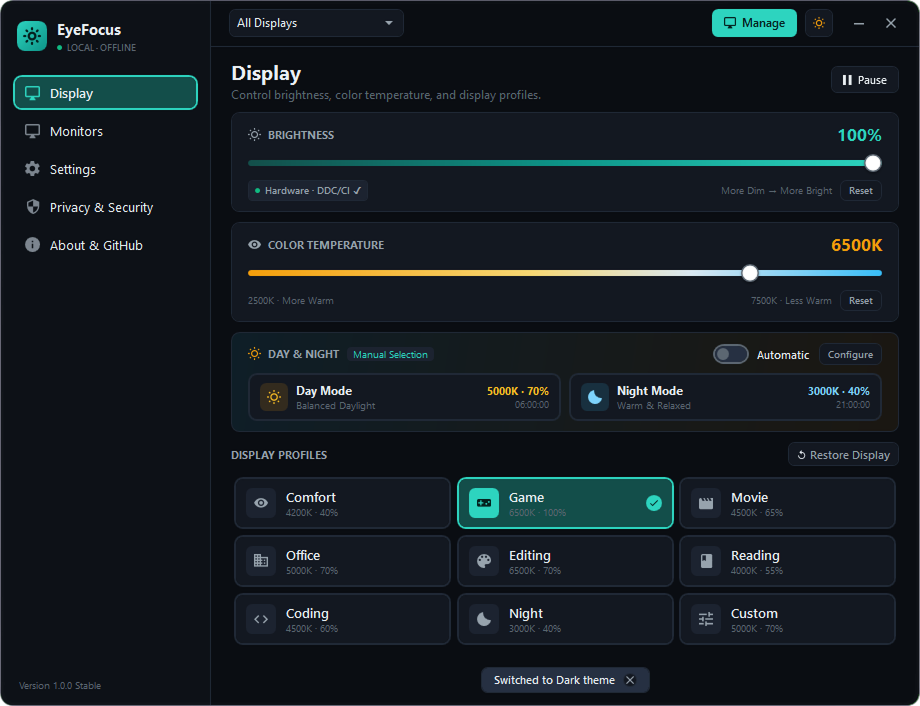
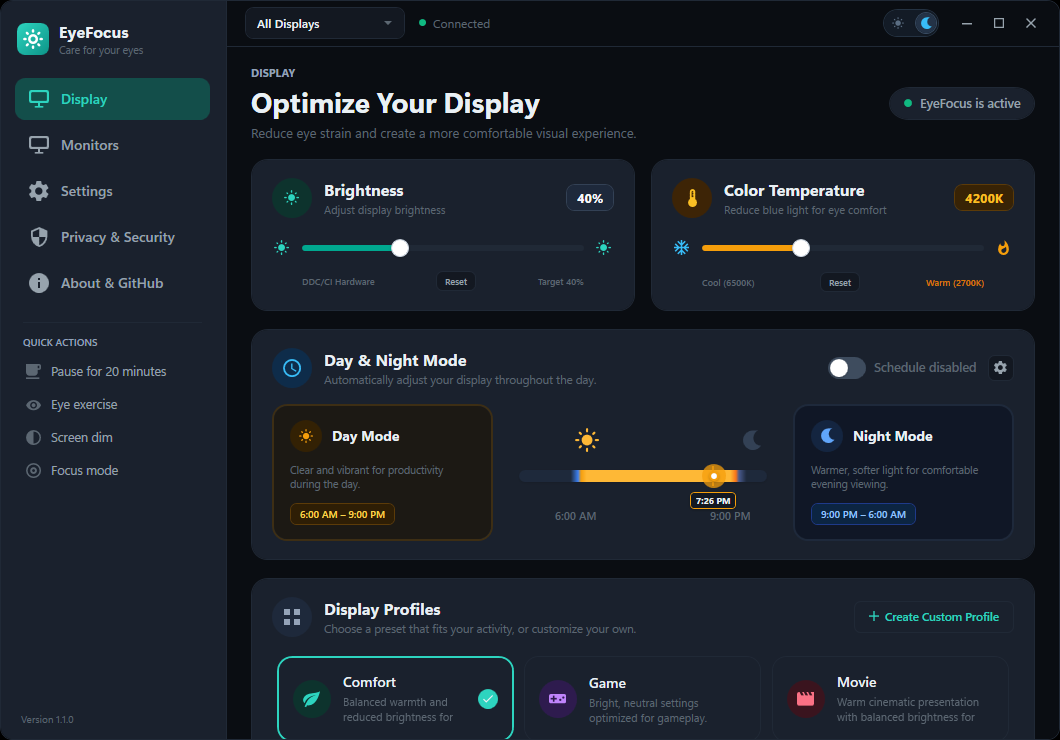
docs: update README screenshots for v1.1.0 release (Dark Mode tabs & Light Mode dashboard)

diff --git a/README.md b/README.md
@@ -78,21 +78,27 @@ Designed with clean **Material Design 3 Expressive & Fluent UI** aesthetics, Eye
 
 ---
 
-### 3. Automatic Day & Night Schedule Configuration
+### 3. Monitors & Hardware Detection (Dark Mode)
 
-<img src="Screenshots/automatic-settings.png" alt="Automatic Day and Night Configuration" />
-
----
-
-### 4. Application Settings & Preferences (Light Mode)
-
-<img src="Screenshots/settings-light.png" alt="Settings and Preferences View" />
+<img src="Screenshots/monitors-dark.png" alt="Monitors and Hardware Detection Dark Mode" />
 
 ---
 
-### 5. Privacy by Design Guarantees (Light Mode)
+### 4. Application Settings & Preferences (Dark Mode)
 
-<img src="Screenshots/privacy-light.png" alt="Privacy and Security View" />
+<img src="Screenshots/settings-dark.png" alt="Application Settings and Preferences Dark Mode" />
+
+---
+
+### 5. Privacy by Design Guarantees (Dark Mode)
+
+<img src="Screenshots/privacy-dark.png" alt="Privacy by Design Guarantees Dark Mode" />
+
+---
+
+### 6. About & Official Links (Dark Mode)
+
+<img src="Screenshots/about-dark.png" alt="About and Official Links Dark Mode" />
 
 </div>
 
